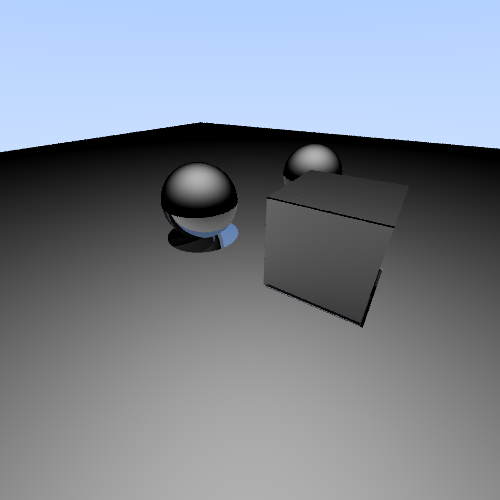
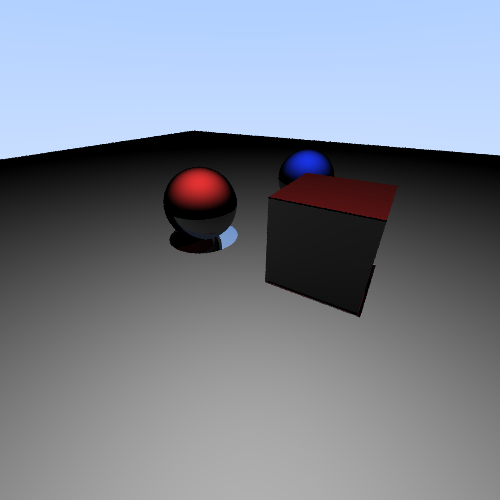
add materials

Changed region(s): [[0.0, 0.24, 1.0, 0.66], [0.3, 0.33, 0.48, 0.51]]

diff --git a/world.h b/world.h
@@ -18,20 +18,23 @@ class World {
 };
 
 void World::LoadObjects() {
+    Material* basicRedMat = new Material(Color(0.9, 0.2, 0.2), 0.2);
     // add cube
     OBJ cube("./obj/cube.obj");
     cube.translate(glm::vec3(1.0, 0.5, 0.0));
-    HittableObj* hcube = new HittableObj(cube);
+    HittableObj* hcube = new HittableObj(cube, basicRedMat);
     objects.push_back(hcube);
     // add sphere
-    Sphere* sphere = new Sphere(Point(-0.8, 0.5, 0), 0.5);
+    Sphere* sphere = new Sphere(Point(-0.8, 0.5, 0), 0.5, basicRedMat);
     objects.push_back(sphere);
     // second sphere
-    Sphere* sphere2 = new Sphere(Point(0, 0.5, 2), 0.5);
+    Material* basicBlueMat = new Material(Color(0.1, 0.2, 0.9), 0.2);
+    Sphere* sphere2 = new Sphere(Point(0, 0.5, 2), 0.5, basicBlueMat);
     objects.push_back(sphere2);
     // add floor
     OBJ plane("./obj/floor.obj");
     plane.scale(20);
-    HittableObj* hplane = new HittableObj(plane);
+    Material* floorMat = new Material(Color(0.7, 0.7, 0.7), 0.8);
+    HittableObj* hplane = new HittableObj(plane, floorMat);
     objects.push_back(hplane);
 }

diff --git a/hittable/hittableObj.h b/hittable/hittableObj.h
@@ -6,15 +6,14 @@
 
 class HittableObj : public Hittable {
     public:
-        HittableObj() {}
-        HittableObj(OBJ object) : obj(object) {};
+        HittableObj(OBJ object, Material *mat) : obj(object), material(mat) {};
         
         virtual bool IsHitByRay(
             const Ray& ray, double maxDistance, Hit& hit) const override;
 
     public:
         OBJ obj;
-        Point pos;
+        Material *material;
 };
 
 bool HittableObj::IsHitByRay(const Ray& ray, double maxDistance, Hit& hit) const {
@@ -32,6 +31,7 @@ bool HittableObj::IsHitByRay(const Ray& ray, double maxDistance, Hit& hit) const
                 hit.point = ray.CalcPointAt(distance);
                 glm::vec3 tempNormal = glm::normalize(glm::cross(vertices[i+1] - vertices[i], vertices[i+2] - vertices[i]));
                 hit.setNormal(ray, tempNormal);
+                hit.material = material;
                 thereIsHit = true;
             }
         }

diff --git a/main.cc b/main.cc
@@ -86,9 +86,11 @@ Color ColorPixel(const Ray &ray, World &world, int reflections)
         {
             Ray reflectionRay = Ray(hit.point, hit.reflection);
             reflectionRay.setPosition(ray.x, ray.y);
-            return float(0.7) * ColorPixel(reflectionRay, world, reflections + 1);
+            // cout << hit.material->reflectance << endl; 
+            return hit.material->reflectance * ColorPixel(reflectionRay, world, reflections + 1);
         }
-        return glm::dot(rayToLight.dir, hit.reflection) * Color(0.7, 0.7, 0.7);
+        // cout << hit.material->color.x << ", " << hit.material->color.y << ", " << hit.material->color.z << ", " << endl;
+        return glm::dot(rayToLight.dir, hit.reflection) * hit.material->color;
     }
 
     float t = 0.5*(ray.dir.y + 1.0);

diff --git a/hittable/sphere.h b/hittable/sphere.h
@@ -4,8 +4,7 @@
 
 class Sphere : public Hittable {
     public:
-        Sphere() {}
-        Sphere(Point cen, double r) : center(cen), radius(r) {};
+        Sphere(Point cen, double r, Material *mat) : center(cen), radius(r), material(mat){};
 
         virtual bool IsHitByRay(
             const Ray& ray, double maxDistance, Hit& rec) const override;
@@ -13,6 +12,7 @@ class Sphere : public Hittable {
     public:
         Point center;
         double radius;
+        Material *material;
 };
 
 /**
@@ -41,6 +41,7 @@ bool Sphere::IsHitByRay(const Ray& ray, double maxDistance, Hit& hit) const {
     hit.distance = root;
     hit.point = ray.CalcPointAt(root);
     hit.setNormal(ray, glm::normalize(hit.point - center));
+    hit.material = material;
 
     return true;
 }

diff --git a/hittable/hittable.h b/hittable/hittable.h
@@ -7,12 +7,14 @@
 #include "../ray/ray.h"
 
 const float epsilon = 0.01;
+class Material;
 
 struct Hit {
     Point point;
     glm::vec3 normal;
     double distance;
     glm::vec3 reflection;
+    Material *material;
 
     inline void setNormal(const Ray& r, const glm::vec3& tempNormal) {
         bool normalPointsOut = glm::dot(r.dir, tempNormal) < 0;
@@ -26,4 +28,11 @@ struct Hit {
 class Hittable {
     public:
         virtual bool IsHitByRay(const Ray& ray, double maxDistance, Hit& hit) const = 0;
+};
+
+class Material {
+    public:
+        Color color;
+        float reflectance;
+        Material(Color col, float ref): color(col), reflectance(ref) {};
 };
